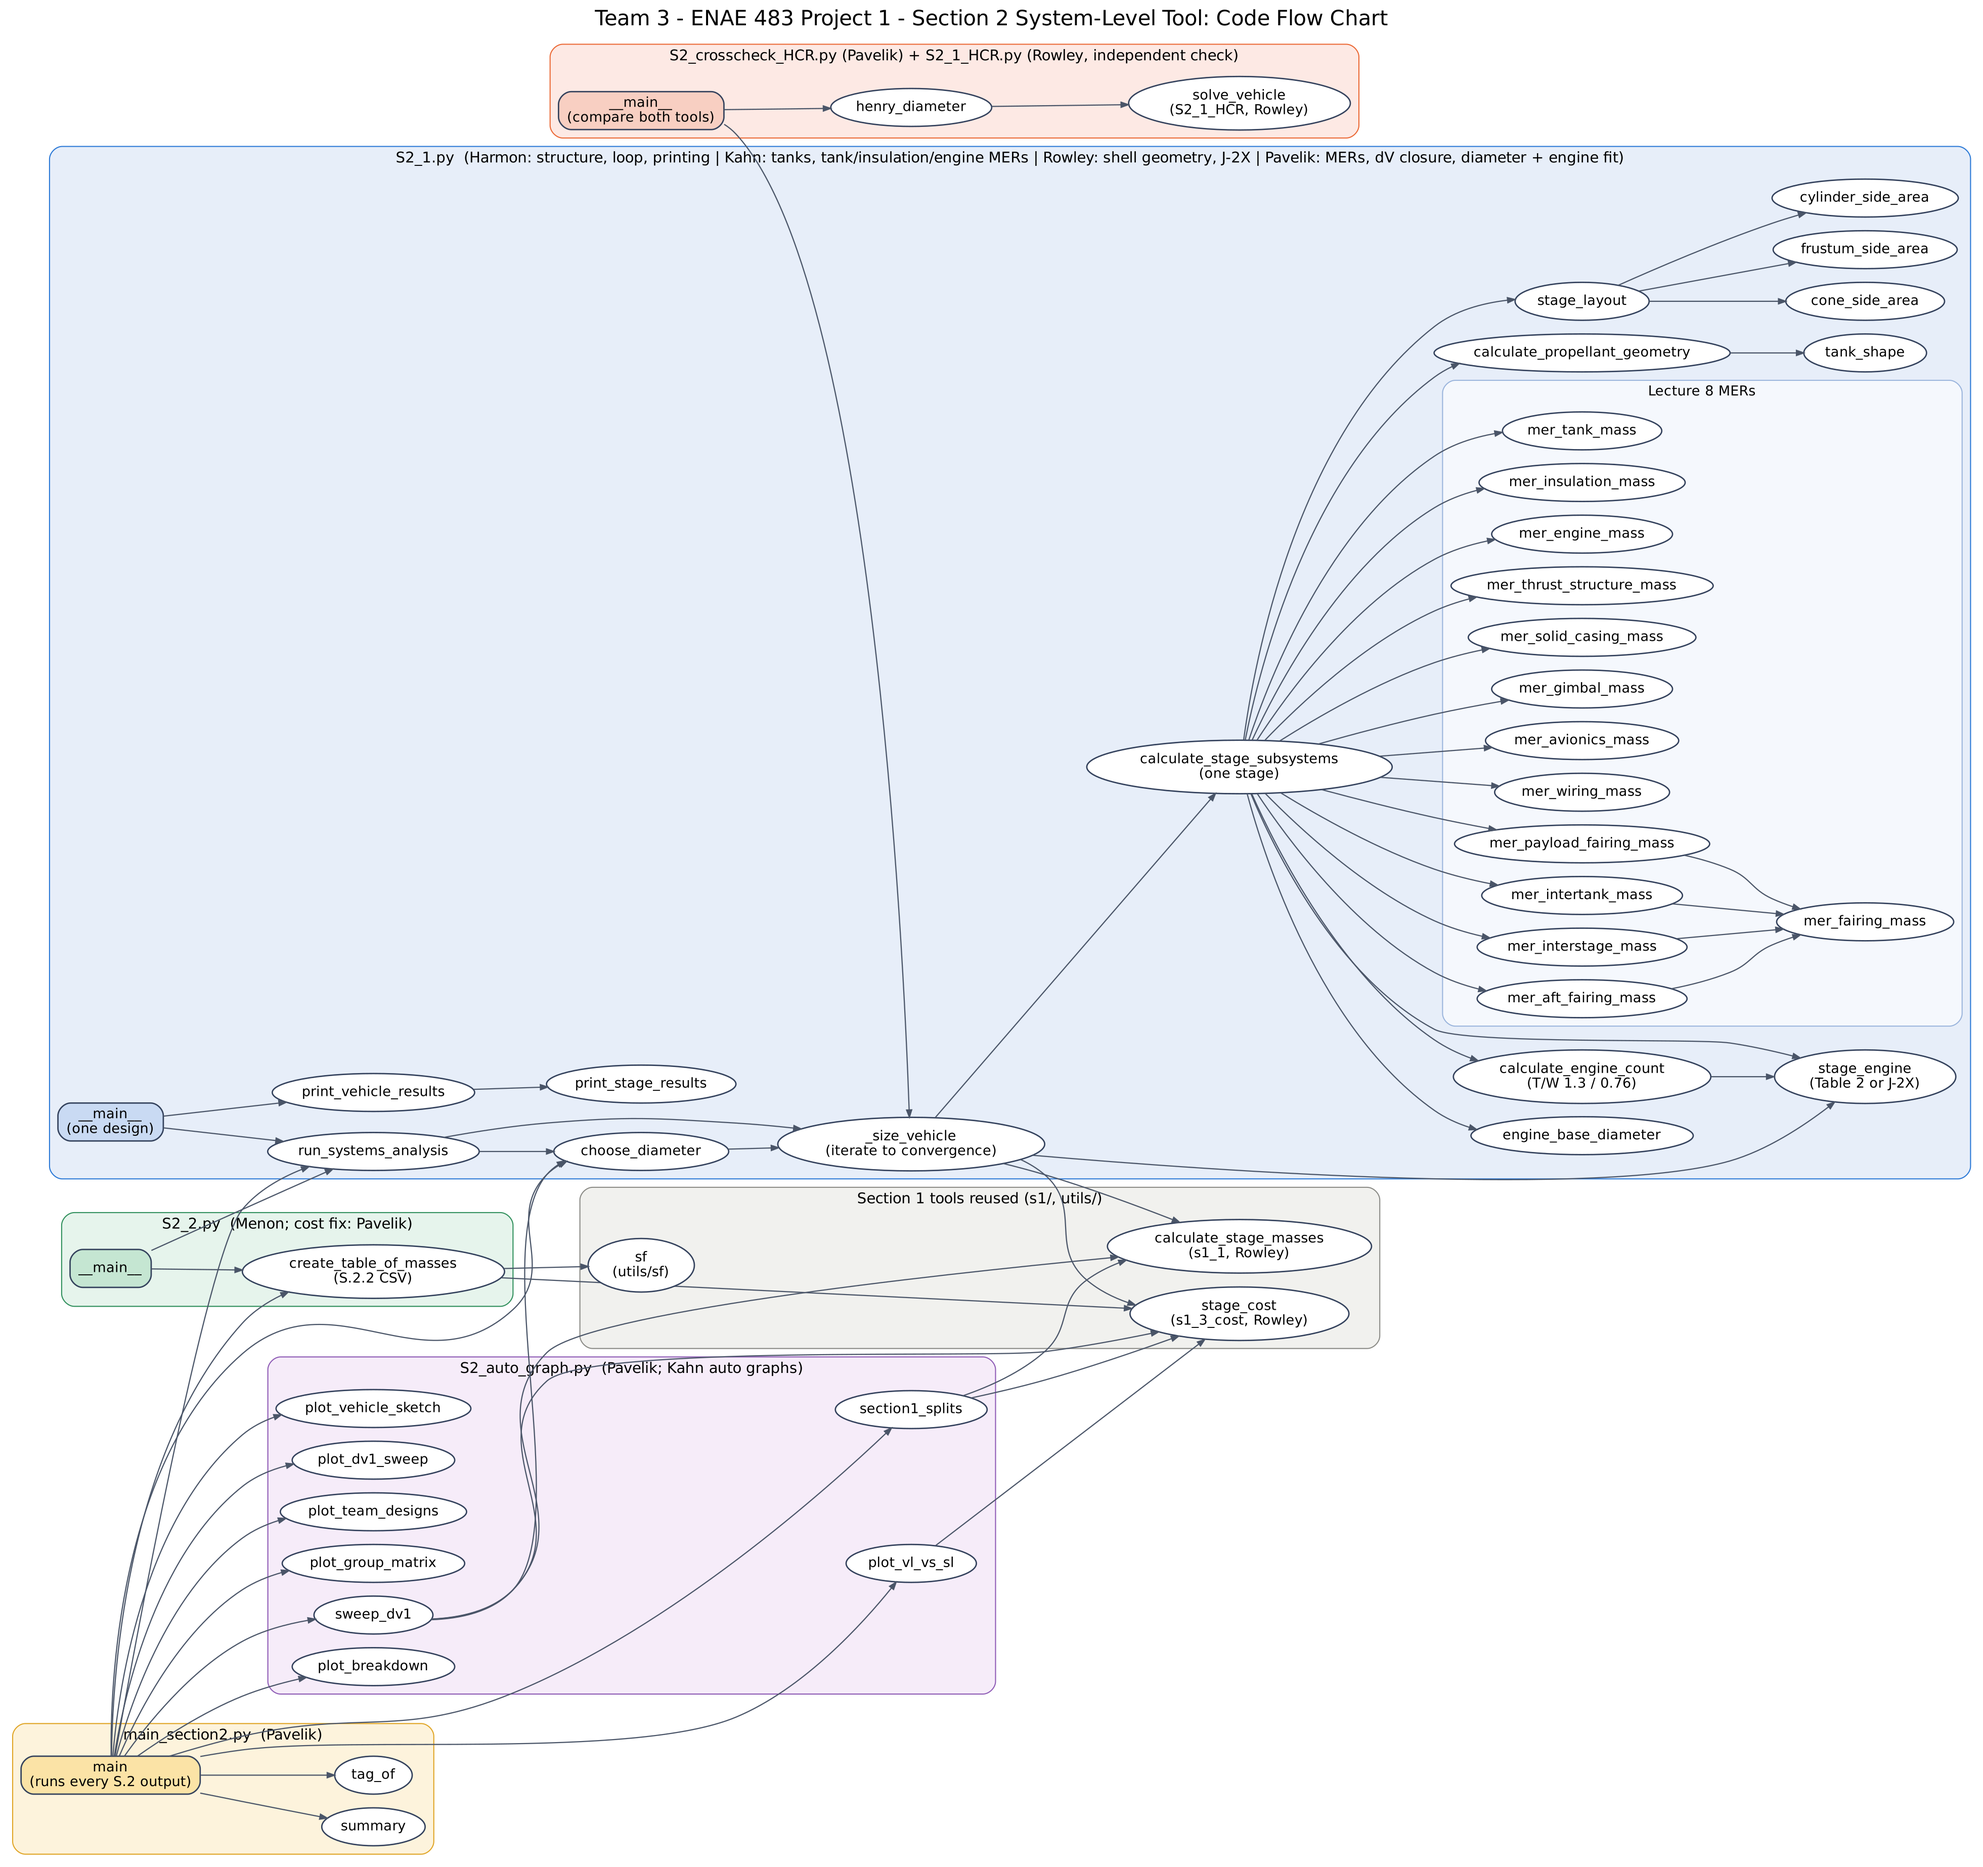
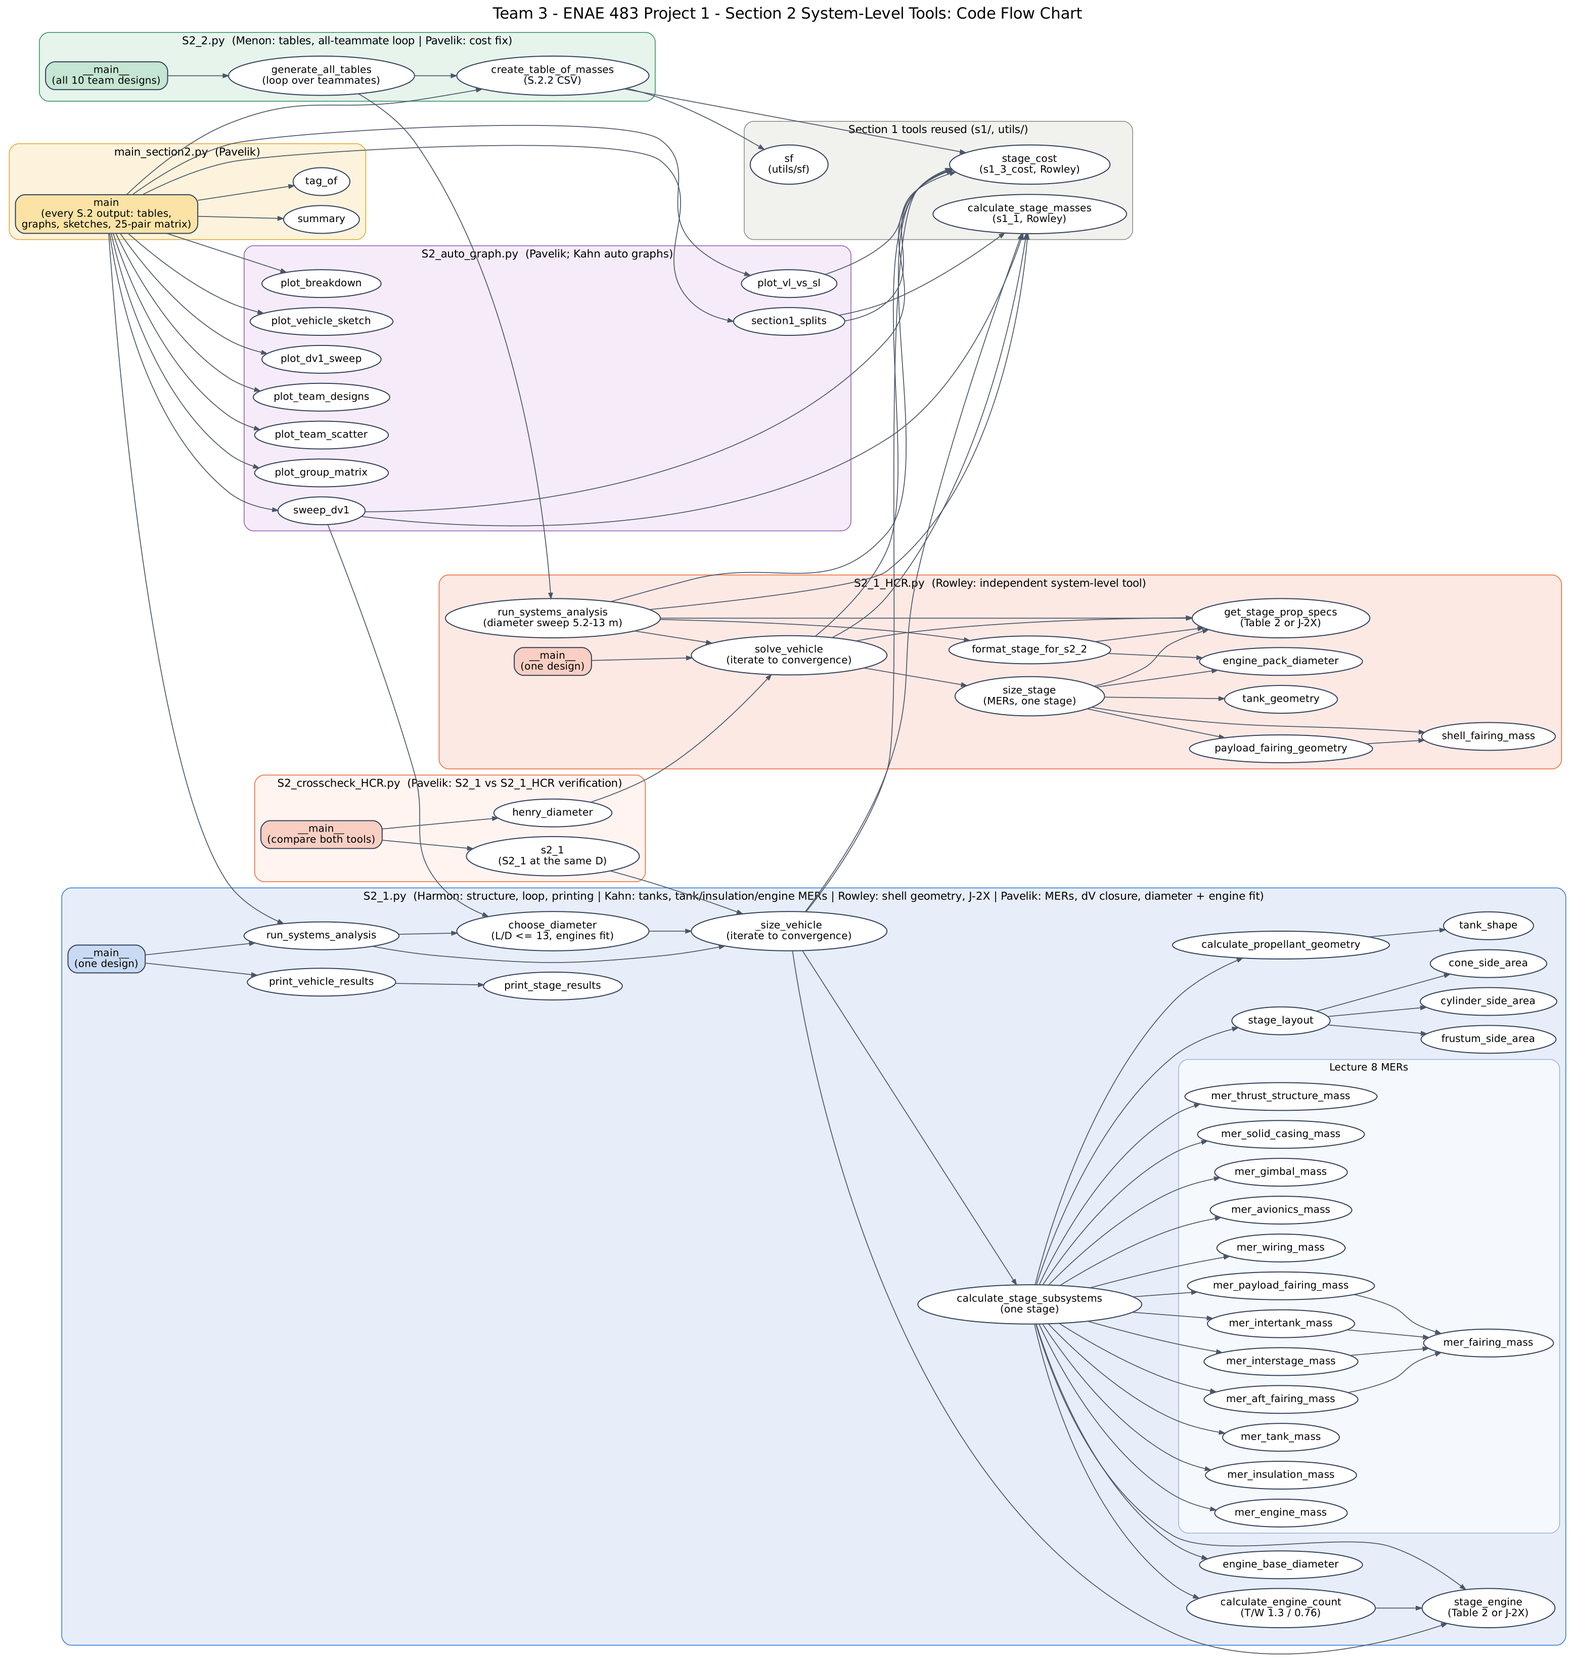
Flow chart for current main (S2_2 all-teammate loop via S2_1_HCR, HCR diameter sweep, team scatter); cross-check labels after Henry's fix; README: the two S.2.2 table paths
Claude-Session: https://claude.ai/code/session_01PeSdsvFj4F5w3GLqnECqxb

diff --git a/S2_crosscheck_HCR.py b/S2_crosscheck_HCR.py
@@ -6,9 +6,10 @@ with S2_1 set to Henry's inputs (J-2X at Table 2's O/F 6.03 and 9.1 MPa), and pr
 difference in gross mass and cost. Two codes written separately agreeing is our S.2.1 verification.
 
 Two S2_1 columns:
-  same inputs : S2_1 with INTERSTAGE_OVER_UPPER_ENGINE_BAY = True (Henry's 10/14 inter-stage length)
-  S2_1 default: inter-stage over stage 1's top dome only (what main_section2.py uses)
-The first should agree to round-off; the second shows what the inter-stage definition is worth.
+  default : inter-stage over stage 1's top dome only (what main_section2.py uses). Matches
+            S2_1_HCR to 0.000% since Henry's 10/14 evening fix.
+  IS on   : S2_1 with INTERSTAGE_OVER_UPPER_ENGINE_BAY = True (the inter-stage length S2_1_HCR had
+            briefly on 10/14, which counted stage 2's engine bay twice). Kept for reference.
 
     python S2_crosscheck_HCR.py      (from the repo root)
 
@@ -61,8 +62,8 @@ def pct(a, b):
 if __name__ == "__main__":
     TrueConst.J2X["mixture_ratio"] = 6.03          # Henry's inputs
     TrueConst.J2X["chamber_pressure_MPa"] = 9.1
-    print(f"{'design':16s} {'D (m)':>5s} | {'HCR m0 t':>8s} {'same in.':>8s} {'diff':>7s} {'default':>8s} {'diff':>7s} "
-          f"| {'HCR $B':>7s} {'same in.':>8s} {'diff':>7s} {'default':>8s} {'diff':>7s}")
+    print(f"{'design':16s} {'D (m)':>5s} | {'HCR m0 t':>8s} {'IS on':>8s} {'diff':>7s} {'default':>8s} {'diff':>7s} "
+          f"| {'HCR $B':>7s} {'IS on':>8s} {'diff':>7s} {'default':>8s} {'diff':>7s}")
     worst_same, spread = 0.0, []
     for who, (p1, p2, dv_m, dv_c) in DESIGNS.items():
         for kind, dv1 in (("min-mass", dv_m), ("min-cost", dv_c)):
@@ -80,5 +81,5 @@ if __name__ == "__main__":
             print(f"{who + ' ' + kind:16s} {D:5.1f} | {hm / 1e3:8.1f} {sm / 1e3:8.1f} {pct(hm, sm):+6.3f}% "
                   f"{um / 1e3:8.1f} {pct(hm, um):+6.2f}% | {hc / 1e3:7.3f} {sc / 1e3:8.3f} {pct(hc, sc):+6.3f}% "
                   f"{uc / 1e3:8.3f} {pct(hc, uc):+6.2f}%")
-    print(f"same inputs: largest difference {worst_same:.3f}%")
-    print(f"S2_1 default inter-stage: {min(spread):+.2f}% to {max(spread):+.2f}% vs S2_1_HCR")
+    print(f"S2_1 default vs S2_1_HCR: {min(spread):+.3f}% to {max(spread):+.3f}%")
+    print(f"S2_1 with the inter-stage over stage 2's engine bay: up to {worst_same:.3f}% off S2_1_HCR")

diff --git a/README_SECTION2.md b/README_SECTION2.md
@@ -68,11 +68,22 @@ it works for any tank shape. The lecture's spheres were only its first-pass geom
 | Diameter | Lightest D (0.1 m steps, from 5.2 m) with L/D <= 13 and engines that fit in the aft fairing; if none fits up to 25 m, lightest L/D-OK design, flagged | CAD needs real engine counts. `ENFORCE_ENGINE_FIT` |
 
 `python S2_crosscheck_HCR.py` runs our tool and Henry's on all ten team designs at the same
-diameter with Henry's inputs: they agree to 0.000% in mass and cost. With our default inter-stage
-(top dome only) the vehicles come out 0.5-1.3% lighter and 1.0-2.0% cheaper than S2_1_HCR's 10/14
-version; the group picks (lowest mass LOX/LH2 / LOX/LH2, lowest cost N2O4/UDMH / LOX/LH2) don't change.
-Decided 10/14 (Henry): that S2_1_HCR edit was a mistake (it counts stage 2's engine bay twice), so the
-team keeps S2_1's default (`INTERSTAGE_OVER_UPPER_ENGINE_BAY = False`) and S2_1.py is the submitted tool.
+diameter with Henry's J-2X inputs: since Henry's 10/14 evening fix to the inter-stage length they
+agree to 0.000% in mass and cost on all 8 designs that close in both.
+
+## Two ways to make the S.2.2 tables (pick one for the slides)
+`main_section2.py` sizes every design with `S2_1.py`; `S2_2.py` (10/14 night) sizes them with
+`S2_1_HCR.py`. Both write the same `csvs/S2_2_table_of_masses_*.csv` names, so whichever ran last is
+what's in `csvs/`. The tools agree on the same inputs; the numbers differ only because of:
+
+| | main_section2.py (S2_1) | S2_2.py (S2_1_HCR) |
+|---|---|---|
+| "Vehicle level" row | Section 1 result (Table 2 Isp 452 s), same as T.4/T.5 | Section 1 relations re-run with the J-2X's 448 s |
+| Diameter search | 5.2-25 m; engines must fit under the aft fairing; if none fit, lightest L/D-OK design, flagged | 5.2-13 m; engines checked against D; if none fit, returns the 13 m design |
+| J-2X O/F, chamber pressure | 5.5, 9.23 MPa (cited) | 6.03 (Table 2 LOX/LH2), 9.1 MPa |
+| LOX/RP1 and solid first stages | 7.0-7.9 m, flagged "engines don't fit" | 13 m, engines don't fit |
+
+The group slides use main_section2.py.
 
 ## Still open
 - LOX/RP1 and solid first stages (Jacob, Sharan): the Table 2 engines (3.7 m and 6.6 m exits)
